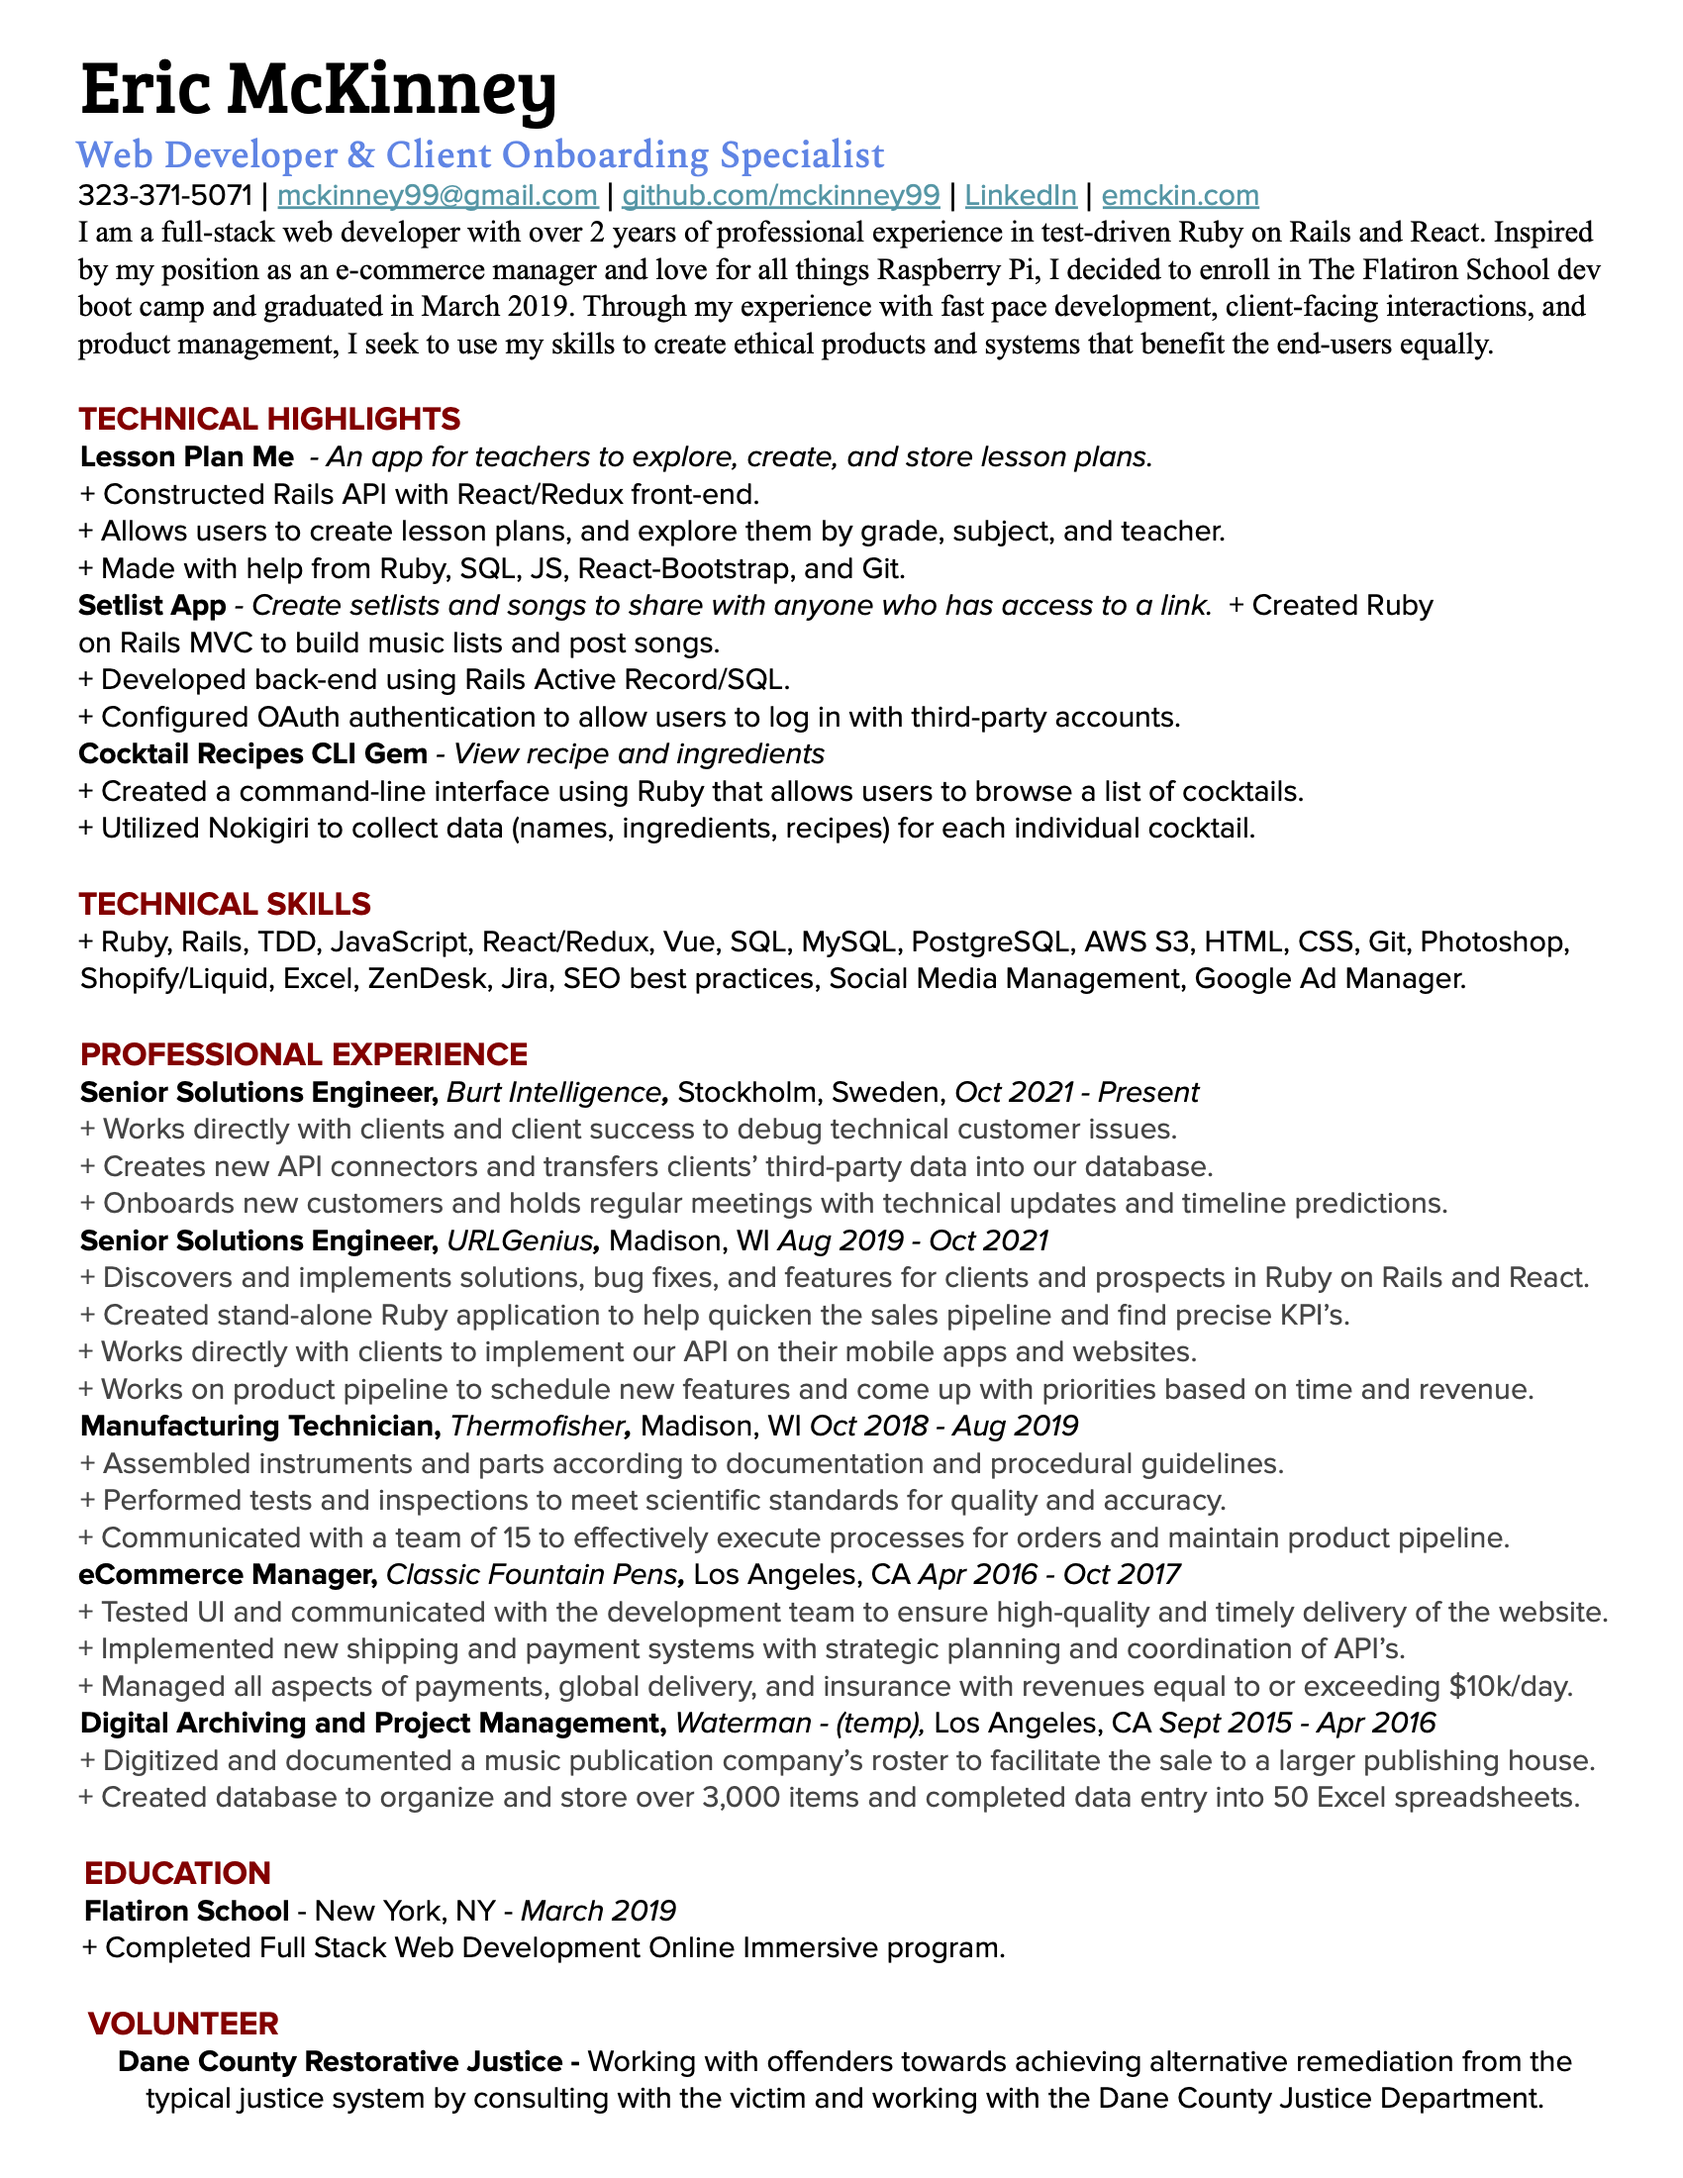
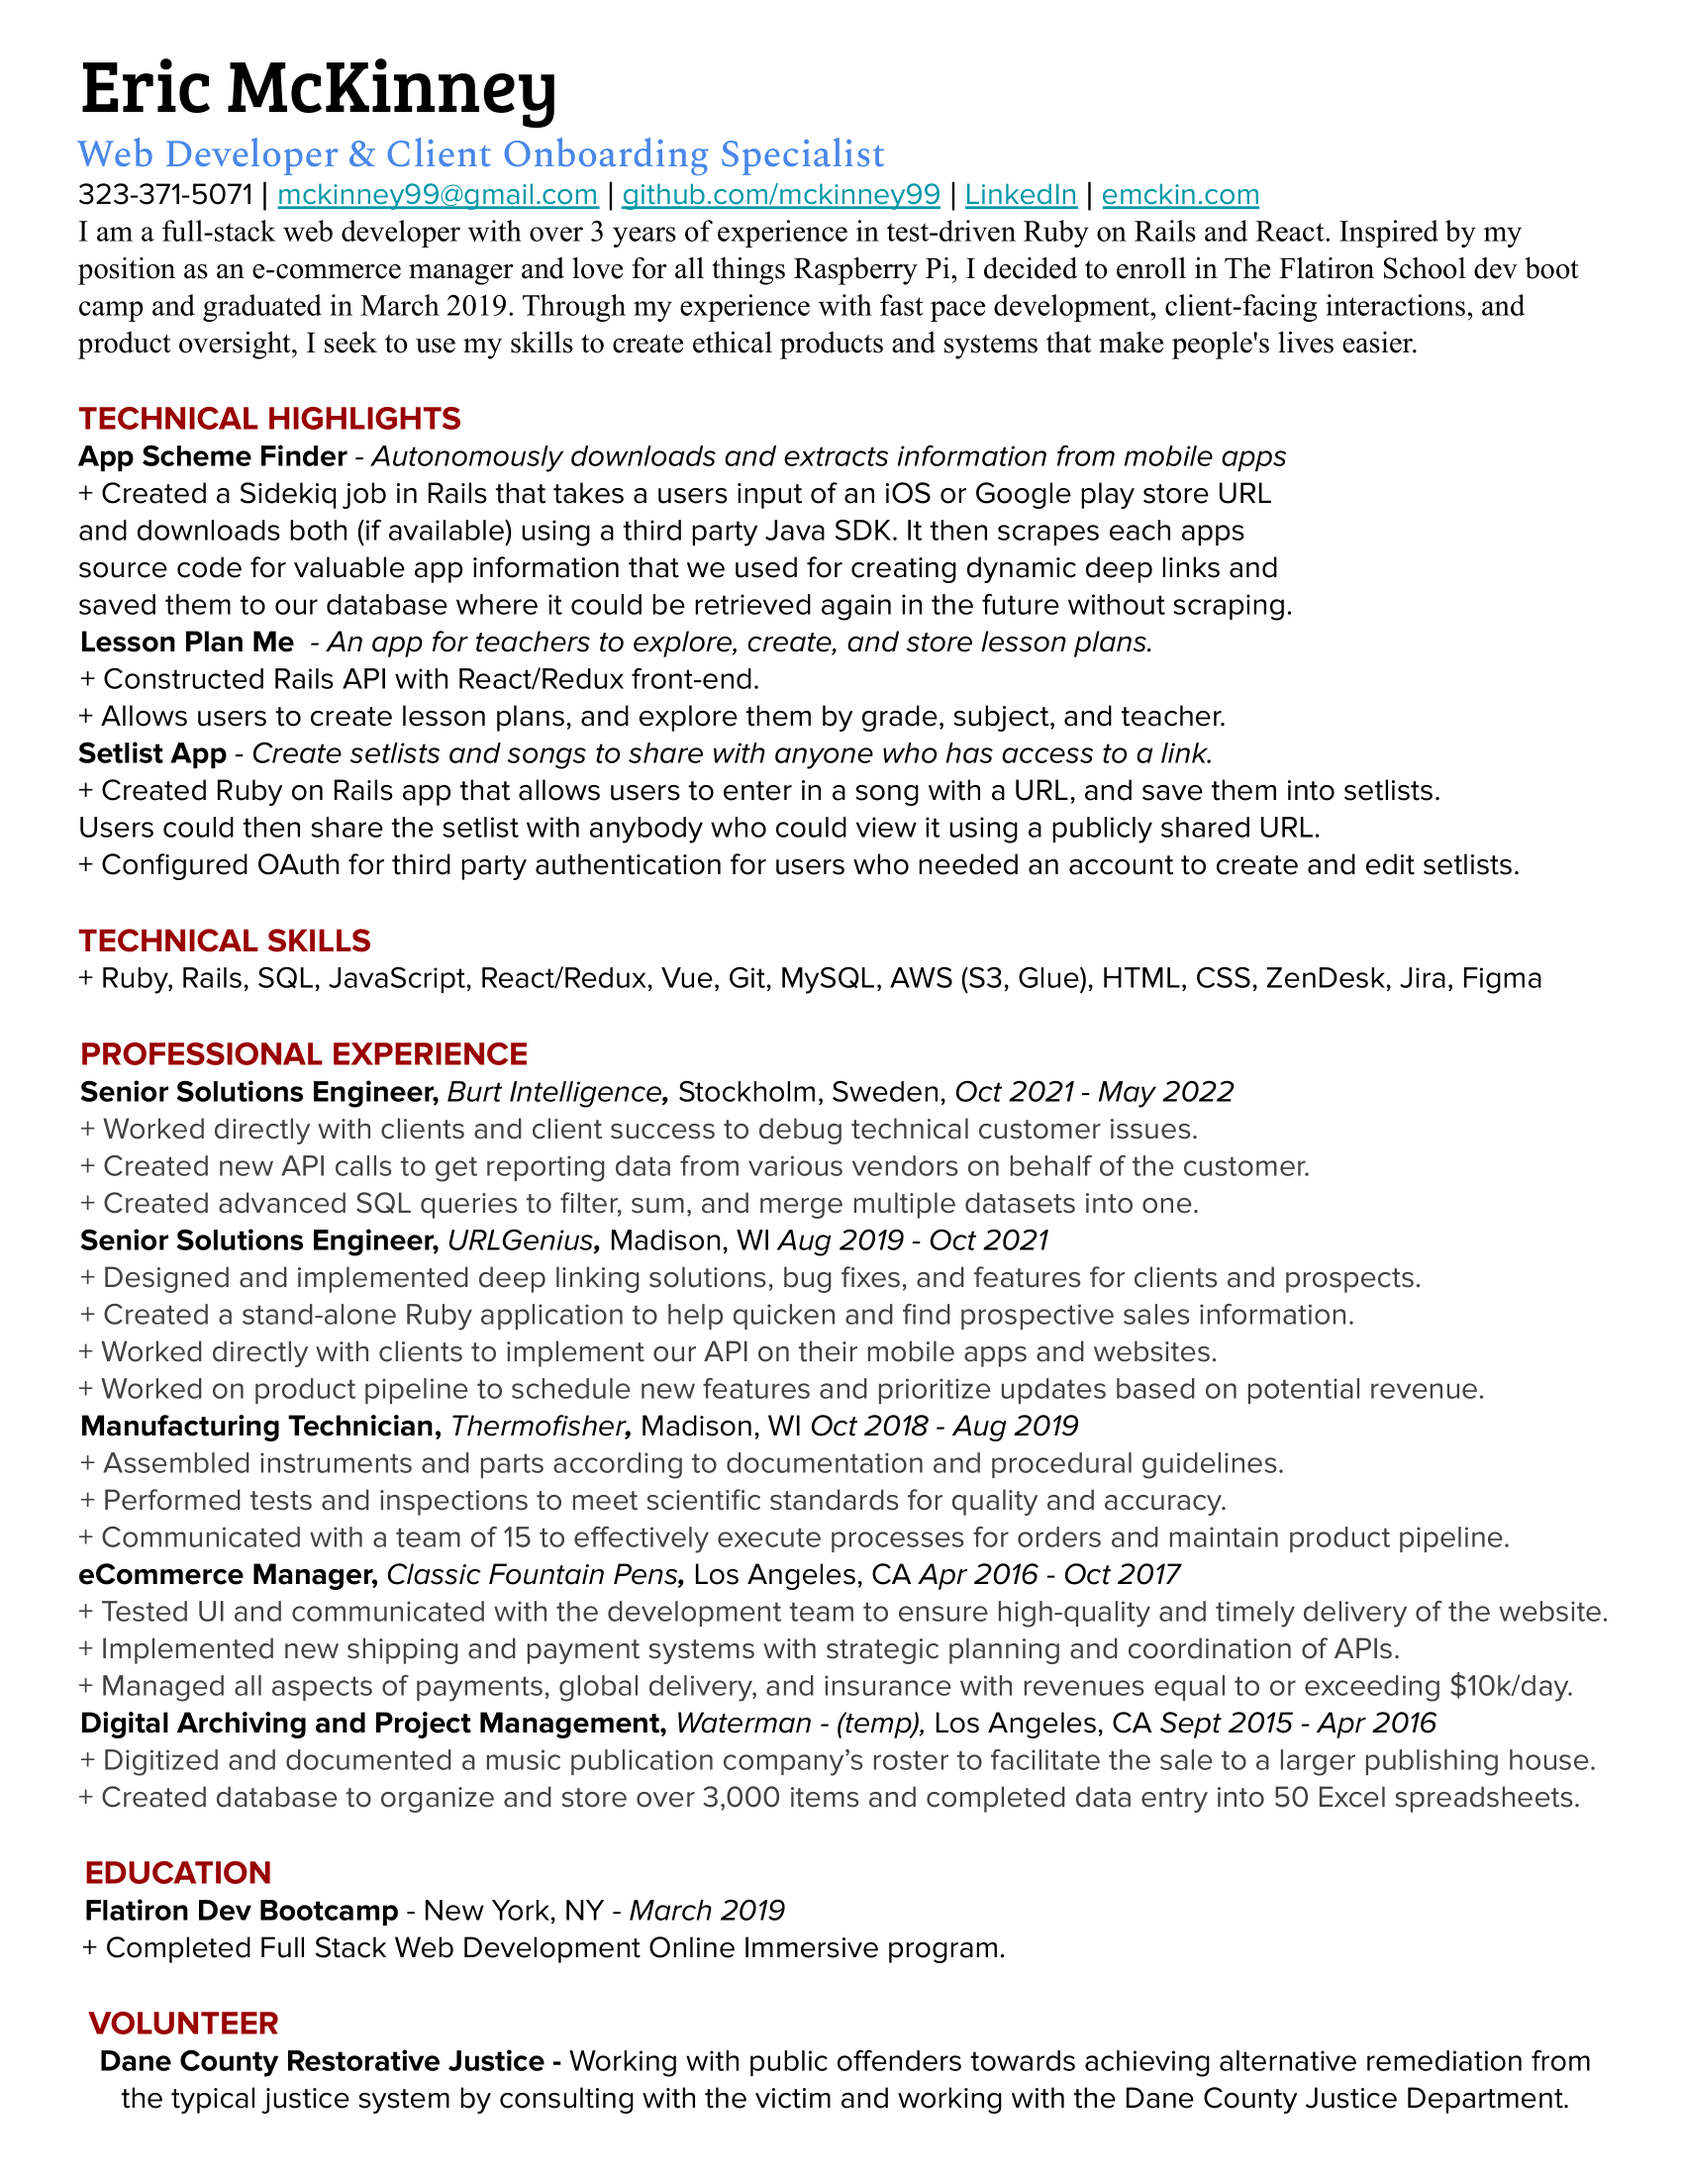
added figma project and updated bio

diff --git a/src/Profile.js b/src/Profile.js
@@ -22,7 +22,18 @@ class Profile extends Component {
         </Row>
         <Row>
           <Col>
-          <p>Eric McKinney is a full stack web developer with experience in Ruby on Rails, Javascript, and React. Inspired by his position as an eCommerce manager, and love for all things Raspberry Pi, Eric has dedicated the last three years to learning web development through various online courses and at The Flatiron School, a top-rated coding bootcamp. Through his experience both as a community volunteer, and a musician, Eric seeks to use his skills to create products and systems that benefit the community.</p>
+          <p>
+            Hello, my name is Eric McKinney and I am a full stack web developer based out of Madison, WI.
+            After graduating high school, I took an untraditional path by packing up my drums and touring
+            the country with various bands and musicians. I eventually wound up in Los Angeles where I got
+            a day job at an ecommerce company that sold fountain pens. The company wanted a new ecommerce website,
+            so we hired a team of developers to create one for us. Working with these developers is what kicked
+            off my curiosity and ultimately my passion for creating neat, scalable, and useful applications.
+            I enrolled in a dev bootcamp (Flatiron) shortly after, and moved back to my home state of Wisconsin.
+            In the spring of 2019 I graduated from Flatiron and began my career in tech shortly after. Since then,
+            I have worked on several Ruby on Rails and React projects, and am continuously sharpening my skills as a developer.
+            Please don't hesitate to reach out if you have any questions whatsoever. Thank you for taking the time to visit my page.
+          </p>
           <br />
             <div className="email">
               <a href={"mailto:mckinney99@gmail.com"}>Email</a>

diff --git a/src/Projects.js b/src/Projects.js
@@ -3,6 +3,10 @@ import './App.css';
 
 import Particles from 'react-particles-js';
 
+import Figma1 from './img/figma-demo-1.png';
+import Figma2 from './img/figma-demo-2.png';
+import Figma3 from './img/figma-demo-3.png';
+
 import LessonPlanner7 from './img/lesson-planner7.png';
 import LessonPlanner2 from './img/lesson-planner2.png';
 import LessonPlanner3 from './img/lesson-planner3.png';
@@ -55,6 +59,37 @@ class Projects extends Component {
         <Col>
           <div className="text-center">
             <div className="project">
+              <h1>Figma Practice App</h1>
+              <p style={{display: "inline"}}>I wanted to get better at translating my designs in Figma to code, so I created
+              this app to help me practice.</p>
+
+              <br />
+              <br />
+
+              <a href="https://scintillating-druid-0f971e.netlify.app/" target="_blank" rel="noopener noreferrer">
+                Visit the live site</a>
+
+              <br />
+              <br />
+
+              <a href="https://www.figma.com/file/5OiF2gRIMr9xPELSCngcF2/design-demo1?node-id=0%3A1" target="_blank" rel="noopener noreferrer">
+                View the Figma design file</a>
+
+              <br />
+              <br />
+
+              <a href="https://github.com/mckinney99/figma-practice-demo/" target="_blank" rel="noopener noreferrer">
+                Checkout the Github repo</a>
+              
+              <Image src={Figma1} fluid/>
+
+              <Image src={Figma2} fluid/>
+
+              <Image src={Figma3} fluid/>
+
+              <br />
+              <br />
+
               <h1>Lesson Planner App </h1>
               <Image src={LessonPlanner7} fluid/>
               <h3 style={{display: "inline"}}>Objective:</h3>
